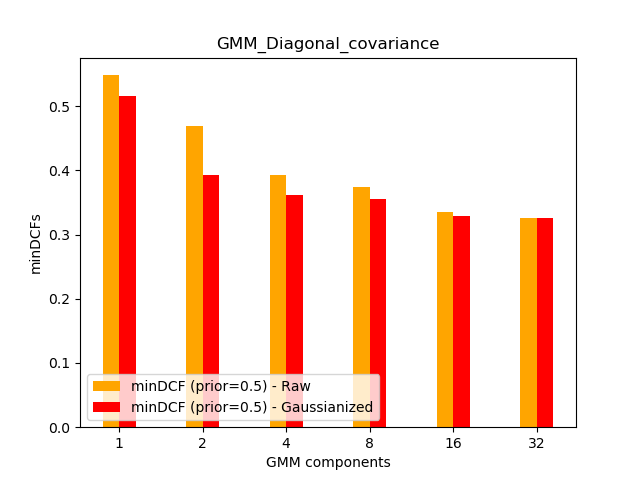
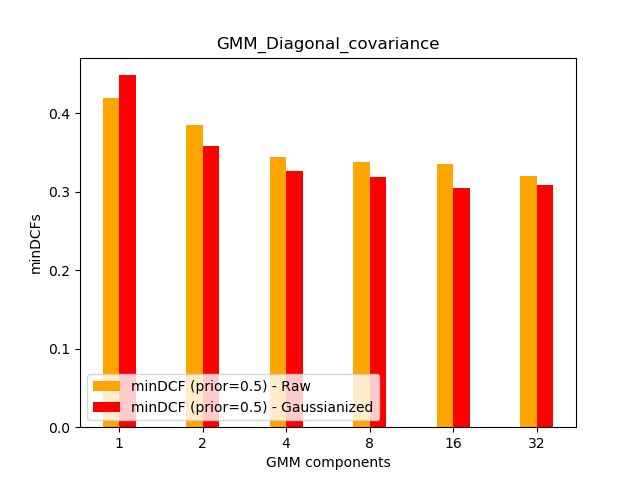
manca svm tabella

diff --git a/report.md b/report.md
@@ -367,18 +367,18 @@ NOOOO---|
 | ------------------------------------------------------------ | ------------------------------------------------------------ |
 | <img src="Graph\SVM\quadratic\singleFoldGAU.png" style="zoom:60%;" /> | <img src="Graph\SVM\quadratic\5FoldGAU.png" style="zoom:60%;" /> |
 
-COLONNE 0.9 e 0.1 scambiate (ma giuste)
+COLONNE 0.9 e 0.1 scambiate (ma giuste) da ricontrollare integralmente!!!!
 
 | K=0, c=1, C=0.1                 | prior=0.5   | prior=0.9   | prior=0.1   |
 | ------------------------------- | ----------- | ----------- | ----------- |
 | **Raw Features**                | ----------- | ----------- | ----------- |
 | Quad SVM, C=0.1, pi_T =0.5      | **0.246**   | 0.735       | 0.732       |
-| Quad SVM, C=0.1, pi_T =0.1      | 0.902       | 0.995       | **0.995**   |
+| Quad SVM, C=0.1, pi_T =0.1      | 0.892       | 0.996       | **0.995**   |
 | Quad SVM, C=0.1, pi_T =0.9      | 0.386       | **0.693**   | 0.876       |
 | Quad SVM, C=0.1, pi_T =pi_emp_T | 0.338       | 0.756       | 0.814       |
 | **Gaussianized features**       | ----------- | ----------- | ----------- |
 | Quad SVM, C=0.1, pi_T =0.5      | 0.246       | 0.632       | 0.709       |
-| Quad SVM, C=0.1, pi_T =0.1      | 0.579       | 0.995       | 0.952       |
+| Quad SVM, C=0.1, pi_T =0.1      | 0.578       | 0.995       | 0.952       |
 | Quad SVM, C=0.1, pi_T =0.9      | 0.397       | 0.670       | 0.953       |
 | Quad SVM, C=0.1, pi_T =pi_emp_T | 0.345       | 0.942       | 0.772       |
 
@@ -451,15 +451,15 @@ The last model considered is the GMM.
 | Num components:            | 1     | 2     | 4     | 8     | 16    | 32    |
 | -------------------------- | ----- | ----- | ----- | ----- | ----- | ----- |
 | ----------**RAW**          |       |       |       |       |       |       |
-| Full                       | 0.343 | 0.321 | 0.321 | 0.296 | 0.309 | 0.314 |
-| Diag                       | 0.548 | 0.469 | 0.393 | 0.374 | 0.334 | 0.325 |
-| Tied                       | 0.343 | 0.343 | 0.315 | 0.306 | 0.299 | 0.302 |
-| Tied Diag                  | 0.548 | 0.507 | 0.424 | 0.391 | 0.374 | 0.321 |
+| Full                       | 0.312 | 0.300 | 0.305 | 0.286 | 0.292 | 0.302 |
+| Diag                       | 0.420 | 0.384 | 0.344 | 0.337 | 0.335 | 0.319 |
+| Tied                       | 0.312 | 0.312 | 0.305 | 0.310 | 0.309 | 0.295 |
+| Tied Diag                  | 0.420 | 0.404 | 0.362 | 0.328 | 0.314 | 0.324 |
 | **----------Gaussianized** |       |       |       |       |       |       |
-| Full                       | 0.306 | 0.317 | 0.299 | 0.305 | 0.326 | 0.337 |
-| Diag                       | 0.516 | 0.393 | 0.362 | 0.355 | 0.328 | 0.325 |
-| Tied                       | 0.306 | 0.306 | 0.309 | 0.311 | 0.305 | 0.287 |
-| Tied Diag                  | 0.516 | 0.437 | 0.370 | 0.377 | 0.334 | 0.318 |
+| Full                       | 0.306 | 0.327 | 0.303 | 0.309 | 0.292 | 0.336 |
+| Diag                       | 0.448 | 0.358 | 0.327 | 0.318 | 0.305 | 0.309 |
+| Tied                       | 0.306 | 0.306 | 0.309 | 0.307 | 0.296 | 0.296 |
+| Tied Diag                  | 0.448 | 0.407 | 0.327 | 0.327 | 0.323 | 0.307 |
 
 
 
